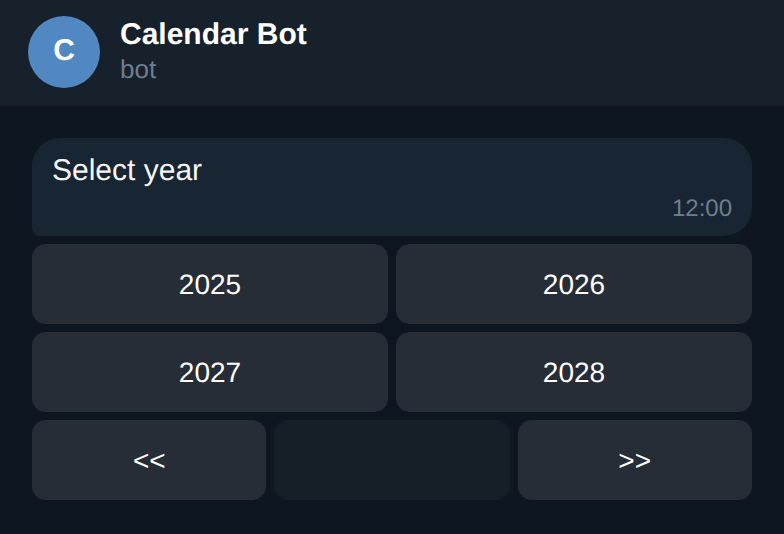
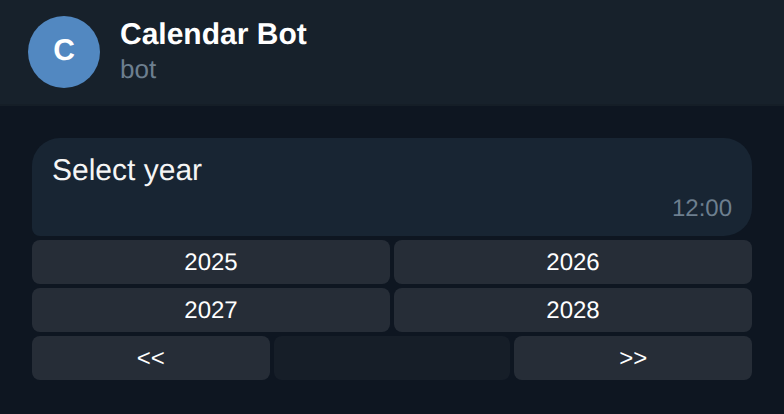
Tighten marker types, use one clock, split range day views, compact screenshots

diff --git a/src/telegram_bot_calendar/range.py b/src/telegram_bot_calendar/range.py
@@ -77,7 +77,7 @@ class RangeTelegramCalendar(CalendarBase):
     # -- screens ----------------------------------------------------------------------------
     def _first_rows(self) -> Rows:
         self.step = cb.DAY
-        return self._days()
+        return self._pick_start()
 
     def _arrows(self, step: str, title: Key, prev_d: date | None, next_d: date | None, start: date | None) -> list[Key]:
         def arrow(text: str, d: date | None) -> Key:
@@ -85,31 +85,39 @@ class RangeTelegramCalendar(CalendarBase):
 
         return [arrow(self.style.prev, prev_d), title, arrow(self.style.next, next_d)]
 
-    def _days(self, start: date | None = None, end: date | None = None) -> Rows:
+    def _month_grid(self, title_row: list[Key], start: date | None, end: date | None) -> Rows:
         first = grid.first_of_month(self.current_date)
-        last = grid.last_of_month(first)
-        title = f"{self._month_name(first.month)} {first.year}"
-        rows: Rows = []
-        if end is None:
-            prev_d = grid.try_add_months(first, -1) if first > grid.first_of_month(self.min_date) else None
-            next_d = grid.try_add_months(first, 1) if last < self.max_date else None
-            title_key = self._key(title, cb.GOTO, cb.MONTH, self.current_date, start)
-            rows.append(self._arrows(cb.DAY, title_key, prev_d, next_d, start))
-        else:
-            rows.append([self._key(title)])
-        rows.append(self._weekday_row())
+        rows: Rows = [title_row, self._weekday_row()]
         for week in grid.day_weeks(first.year, first.month):
             rows.append([self._day_key(first, n, start, end) for n in week])
-        if start is not None and end is not None:
-            rows.append([self._key(self.format_range(start, end))])
-            rows.append(
-                [
-                    self._key(self.style.confirm, cb.CONFIRM, cb.DAY, end, start),
-                    self._key(self.style.change, cb.CHANGE, cb.DAY, start),
-                ]
-            )
-        elif start is None:
-            rows += self._quick_picks()
+        return rows
+
+    def _title(self) -> str:
+        return f"{self._month_name(self.current_date.month)} {self.current_date.year}"
+
+    def _nav_grid(self, start: date | None) -> Rows:
+        first = grid.first_of_month(self.current_date)
+        last = grid.last_of_month(first)
+        prev_d = grid.try_add_months(first, -1) if first > grid.first_of_month(self.min_date) else None
+        next_d = grid.try_add_months(first, 1) if last < self.max_date else None
+        title_key = self._key(self._title(), cb.GOTO, cb.MONTH, self.current_date, start)
+        return self._month_grid(self._arrows(cb.DAY, title_key, prev_d, next_d, start), start, None)
+
+    def _pick_start(self) -> Rows:
+        return self._nav_grid(None) + self._quick_picks()
+
+    def _pick_end(self, start: date) -> Rows:
+        return self._nav_grid(start)
+
+    def _summary(self, start: date, end: date) -> Rows:
+        rows = self._month_grid([self._key(self._title())], start, end)
+        rows.append([self._key(self.format_range(start, end))])
+        rows.append(
+            [
+                self._key(self.style.confirm, cb.CONFIRM, cb.DAY, end, start),
+                self._key(self.style.change, cb.CHANGE, cb.DAY, start),
+            ]
+        )
         return rows
 
     def _day_key(self, first: date, n: int, start: date | None, end: date | None) -> Key:
@@ -162,17 +170,17 @@ class RangeTelegramCalendar(CalendarBase):
         if p.action == cb.GOTO:
             if p.step == cb.MONTH:
                 return self._screen(self._months(p.start), cb.MONTH)
-            return self._screen(self._days(p.start), cb.DAY)
+            return self._screen(self._pick_end(p.start) if p.start is not None else self._pick_start(), cb.DAY)
         if p.action == cb.CHANGE:
-            return self._screen(self._days(), cb.DAY)
+            return self._screen(self._pick_start(), cb.DAY)
         if not self._in_range(p.day) or (p.start is not None and not self._in_range(p.start)):
             return NO_RESULT
         if p.action == cb.SELECT:
             if p.start is None:
-                return self._screen(self._days(start=p.day), cb.DAY)
+                return self._screen(self._pick_end(p.day), cb.DAY)
             lo, hi = sorted((p.start, p.day))
             self.current_date = hi
-            return self._screen(self._days(lo, hi), SUMMARY)
+            return self._screen(self._summary(lo, hi), SUMMARY)
         if p.action == cb.CONFIRM and p.start is not None:
             lo, hi = sorted((p.start, p.day))
             return (lo, hi), None, SUMMARY

diff --git a/docs/render_screenshots.py b/docs/render_screenshots.py
@@ -23,6 +23,7 @@ from telegram_bot_calendar import (  # noqa: E402
     WYearTelegramCalendar,
     core,
 )
+from telegram_bot_calendar.locales import WEEKDAY_NAMES  # noqa: E402
 
 TODAY = date(2026, 5, 14)
 THEMES: dict[str, dict[str, str]] = {
@@ -86,7 +87,13 @@ def key(button: dict[str, Any]) -> str:
 
 def page(text: str, markup: str, theme: dict[str, str]) -> str:
     rows = [row for row in json.loads(markup)["inline_keyboard"] if row]
-    keyboard = "".join('<div class="row">' + "".join(key(b) for b in row) + "</div>" for row in rows)
+    weekdays = WEEKDAY_NAMES["en"]
+
+    def row_html(row: list[dict[str, Any]]) -> str:
+        cls = "row weekdays" if [b["text"] for b in row] == list(weekdays) else "row"
+        return f'<div class="{cls}">' + "".join(key(b) for b in row) + "</div>"
+
+    keyboard = "".join(row_html(row) for row in rows)
     t = theme
     return f"""<!doctype html><html lang="en"><meta charset="utf-8"><style>
 body {{ margin: 0; background: {t["page"]}; font: 15px/1.35 -apple-system, "Segoe UI", Roboto, sans-serif; }}
@@ -101,12 +108,13 @@ body {{ margin: 0; background: {t["page"]}; font: 15px/1.35 -apple-system, "Sego
 .msg {{ display: flex; flex-direction: column; }}
 .bubble {{ background: {t["bubble"]}; color: {t["text"]}; border-radius: 14px 14px 14px 4px; padding: 7px 10px 6px; }}
 .meta {{ color: {t["meta"]}; font-size: 12px; text-align: right; }}
-.kb {{ display: flex; flex-direction: column; gap: 4px; margin-top: 4px; }}
-.row {{ display: flex; gap: 4px; }}
-.key {{ flex: 1 1 0; min-width: 0; height: 40px; display: flex; align-items: center; justify-content: center;
-  background: {t["button"]}; color: {t["button_text"]}; border-radius: 7px; padding: 0 2px; font-size: 14px;
+.kb {{ display: flex; flex-direction: column; gap: 2px; margin-top: 2px; }}
+.row {{ display: flex; gap: 2px; }}
+.key {{ flex: 1 1 0; min-width: 0; height: 22px; display: flex; align-items: center; justify-content: center;
+  background: {t["button"]}; color: {t["button_text"]}; border-radius: 4px; padding: 0 2px; font-size: 12px;
   font-weight: 500; white-space: nowrap; overflow: hidden; text-overflow: ellipsis; }}
 .key.empty {{ opacity: 0.35; }}
+.row.weekdays .key {{ background: transparent; color: {t["meta"]}; font-weight: 400; }}
 </style><body><div id="shot"><div class="header"><div class="avatar" aria-hidden="true">C</div>
 <div><div class="title">Calendar Bot</div><div class="subtitle">bot</div></div></div>
 <div class="chat"><div class="msg"><div class="bubble"><div>{html.escape(text)}</div>

diff --git a/src/telegram_bot_calendar/core.py b/src/telegram_bot_calendar/core.py
@@ -5,7 +5,7 @@ from __future__ import annotations
 import random
 from dataclasses import replace
 from datetime import date
-from typing import Any, Callable, ClassVar, Optional, Union
+from typing import Any, Callable, ClassVar, Final, Optional, Union, final
 
 from telegram_bot_calendar import callback as cb
 from telegram_bot_calendar import grid, render
@@ -13,7 +13,15 @@ from telegram_bot_calendar.locales import MONTH_NAMES, WEEKDAY_NAMES, check_loca
 from telegram_bot_calendar.style import DEFAULT_STYLE, Style
 
 
+@final
 class _Marker:
+    """Type of the ``CANCELLED`` / ``EXPIRED`` sentinels. Compare with ``is``."""
+
+    __slots__ = ("_name",)
+
+    def __init_subclass__(cls, **kwargs: Any) -> None:
+        raise TypeError("_Marker is final")
+
     def __init__(self, name: str) -> None:
         self._name = name
 
@@ -21,9 +29,9 @@ class _Marker:
         return self._name
 
 
-CANCELLED: Any = _Marker("CANCELLED")
+CANCELLED: Final[_Marker] = _Marker("CANCELLED")
 """``result`` when the user taps Cancel."""
-EXPIRED: Any = _Marker("EXPIRED")
+EXPIRED: Final[_Marker] = _Marker("EXPIRED")
 """``result`` when a tap carries a different ``session`` token."""
 
 
@@ -36,7 +44,8 @@ NO_RESULT: tuple[None, None, None] = (None, None, None)
 LSTEP: dict[str, str] = {cb.YEAR: "year", cb.MONTH: "month", cb.DAY: "day"}
 
 Markup = Union[str, list[list[Any]]]
-Outcome = tuple[Any, Optional[Markup], Optional[str]]
+Result = Union[date, tuple[date, date], _Marker, None]
+Outcome = tuple[Result, Optional[Markup], Optional[str]]
 
 
 class CalendarBase:
@@ -68,7 +77,7 @@ class CalendarBase:
             raise ValueError("session must be 1-8 ASCII letters or digits")
         check_locale(locale)
         self.calendar_id = calendar_id
-        self.current_date = current_date or date.today()
+        self.current_date = current_date or today()
         self.locale = locale
         self.min_date = min_date or date(1, 1, 1)
         self.max_date = max_date or date(2999, 12, 31)

diff --git a/tests/test_calendars.py b/tests/test_calendars.py
@@ -201,3 +201,28 @@ def test_telethon_missing(monkeypatch: pytest.MonkeyPatch) -> None:
 def test_markup_is_json_string() -> None:
     markup, _ = WMonthTelegramCalendar(current_date=TODAY).build()
     assert isinstance(markup, str) and "inline_keyboard" in json.loads(markup)
+
+
+def test_default_current_date_uses_frozen_today(monkeypatch: pytest.MonkeyPatch) -> None:
+    from telegram_bot_calendar import core
+
+    monkeypatch.setattr(core, "today", lambda: date(2020, 2, 10))
+    assert "Feb 2020" in labels(RangeTelegramCalendar().build()[0])
+    assert "cbcal_0_s_d_2020_2_10" in str(WMonthTelegramCalendar().build()[0])
+
+
+def test_markers_are_typed_singletons() -> None:
+    from telegram_bot_calendar.core import _Marker
+
+    assert isinstance(CANCELLED, _Marker) and isinstance(EXPIRED, _Marker)
+    assert (repr(CANCELLED), repr(EXPIRED)) == ("CANCELLED", "EXPIRED")
+    with pytest.raises(TypeError):
+        type("Sub", (_Marker,), {})
+
+
+def test_markers_compare_by_identity() -> None:
+    cal = WMonthTelegramCalendar(current_date=TODAY, cancel_button="Cancel", session="abc")
+    markup, _ = cal.build()
+    assert cal.process(data_for(markup, "Cancel"))[0] is CANCELLED
+    other = WMonthTelegramCalendar(current_date=TODAY, session="xyz")
+    assert other.process(data_for(markup, 1))[0] is EXPIRED
